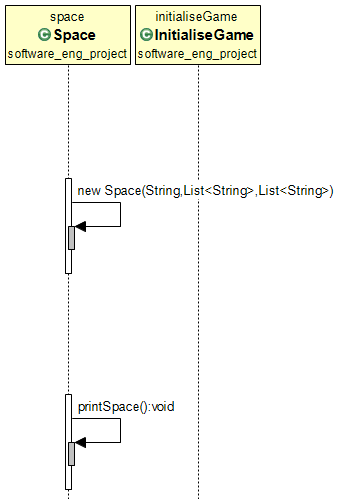
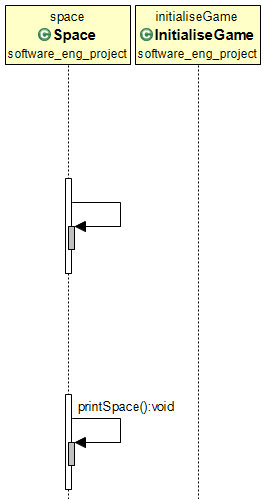
Tidied up console window print messages, printed user's name on turn, get user to spin the spinner, and stopped printing full decks of cards when they are created. Signed-off-by: Barry Mulvey <barry.mulvey@ucdconnect.ie>

diff --git a/src/software_eng_project/Main.java b/src/software_eng_project/Main.java
@@ -11,53 +11,9 @@ import software_eng_project.HouseCards;
 public class Main {
 
 	public static void main(String[] args) {
-		// initialise players
-
-		//ArrayList<String> carColour = new ArrayList<String>();
-		//carColour.add("Pink");
-		//carColour.add("Blue");
-		//carColour.add("Green");
-		//carColour.add("Yellow");
-		//String userColour = null;
-		//ArrayList<Player> listOfPlayers = new ArrayList<Player>();
-
-
-		/*System.out.println("How many players? (2-4): ");
-		int numPlayers = keyboard.nextInt();
-
-		for (int i=1; i<=numPlayers; i++) {
-			Player player = new Player(); 
-			Player player1 = new Player(); 		
-			player1 = player.initialisePlayer(carColour);
-
-			String chosenColour = player1.getColour();
-			carColour.remove(chosenColour);
-
-			listOfPlayers.add(player1);
-			}
-
-		for (int x=0; x<listOfPlayers.size(); x++) {
-			listOfPlayers.get(x).printDetails();
-		}
-
-		// HOUSE CARDS
-		// house cards read in and sorted into array houseList, details printed to check if correct!
-
-		//identifies were the board file is located
-		Utility utility = Utility.getInstance();
-		String boardFileLocation = utility.getProperty("house_file");
-
-		ArrayList<HouseCards> houseList = new ArrayList<HouseCards>();
-		houseList = HouseCards.getListOfCards(boardFileLocation);
-		for (int i=0;i<houseList.size();i++) {
-			houseList.get(i).printCardDetails();
-		} 
-		 */
-
 		// open scanner
 		Scanner keyboard = new Scanner(System.in);
-
-
+		
 		// create list of players and initialise
 		ArrayList<Player> new_listOfPlayers = new ArrayList<Player>();
 		new_listOfPlayers = InitialiseGame.initialisePawns();
@@ -85,49 +41,18 @@ public class Main {
 		// Create a new spinner
 		Spinner spinner = new Spinner();
 
-
 		// PLAYERS PLAY
 
-		/*
-		for(int x=0;x<new_listOfPlayers.size();x++) {
-
-			// spin spinner and print results
-			spinner.spinSpinner();
-			int moves = spinner.getNumber();
-			System.out.println("Value: "+moves+"\nColour: "+spinner.getColour());
-
-			for(int y=1;y<=moves;y++) {
-				String next_space = null;
-				String current_space = new_listOfPlayers.get(x).getCurrentSpace();
-				System.out.println("Player "+x+" now at: "+current_space);
-				// what are the next space choices?
-				java.util.List<String> next_space_choices = boardSpacesList.get(Integer.parseInt(current_space)).getNextSpace();
-				// ask user if there is a choice!
-				String space_type = boardSpacesList.get(Integer.parseInt(current_space)).getSpaceType();
-				if(space_type.contains("STOP")) {
-					System.out.println("Stop");
-				}
-				if(next_space_choices.size() > 1) {
-					System.out.println("Choose Path: " + next_space_choices.get(0) + " or " + next_space_choices.get(1));
-					int next_space_int = keyboard.nextInt();
-					next_space = Integer.toString(next_space_int);
-				} else {
-					next_space = next_space_choices.get(0);
-				}
-				new_listOfPlayers.get(x).movePlayer(next_space);
-
-			}
-			System.out.println("Next player's turn");
-		} */
-
-		for (int num_turns=0;num_turns<3;num_turns++) {
-
-
-			// 1st TURN
-
+		for (int num_turns=0;num_turns<3;num_turns++) { 				// for 3 turns
 			for(int x=0;x<new_listOfPlayers.size();x++) {
-
+				String current_player=new_listOfPlayers.get(x).getName();
+				// Next player's turn
+				System.out.println("\n"+current_player+"'s turn");
+				
 				// spin spinner and print results
+				System.out.println(current_player+", press enter to spin the spinner!");
+				keyboard.nextLine();
+				
 				spinner.spinSpinner();
 				int moves = spinner.getNumber();
 				System.out.println("Spin value: "+moves+"\nColour: "+spinner.getColour());
@@ -139,7 +64,7 @@ public class Main {
 					java.util.List<String> next_space_choices = boardSpacesList.get(Integer.parseInt(current_space)-1).getNextSpace();
 					// ask user if there is a choice!
 					String space_type = boardSpacesList.get(Integer.parseInt(current_space)-1).getSpaceType();
-					if(y>0 && space_type.contains("STOP")) {
+					if(y>0 && space_type.contains("STOP")) { 						// Player lands on stop
 						System.out.println("Stop");
 						break;
 					}
@@ -154,12 +79,14 @@ public class Main {
 				}
 
 				String current_space = new_listOfPlayers.get(x).getCurrentSpace();
-				System.out.println("Player "+x+" now at: "+current_space);
-				System.out.println("\nNext player's turn");
+				System.out.println(current_player+" moves to space "+current_space);
+				//System.out.println(current_player+", press enter to end your turn.");
+				//keyboard.nextLine();
+				//System.out.println("\nNext player's turn");
 			}
 
 		}
-
+		System.out.println("\nEnd of game!");
 
 		keyboard.close();
 	}

diff --git a/src/software_eng_project/InitialiseGame.java b/src/software_eng_project/InitialiseGame.java
@@ -12,10 +12,12 @@ public class InitialiseGame {
 	
 	public static ArrayList<Space> initialiseBoard() {
 	ArrayList<Space> boardSpacesList = BoardReader.readBoard();
+	/*
 	for(int i=0;i<boardSpacesList.size();i++) {
 		boardSpacesList.get(i).printSpace();
 		System.out.println();
 		}
+	*/
 	return boardSpacesList;
 	}
 
@@ -65,9 +67,11 @@ public class InitialiseGame {
 		
 		ArrayList<HouseCards> houseList = new ArrayList<HouseCards>();
 		houseList = HouseCards.getListOfCards(houseFileLocation);
+		/*
 		for (int i=0;i<houseList.size();i++) {
 			houseList.get(i).printCardDetails();
 		} 
+		*/
 	return houseList;
 	}
 
@@ -81,9 +85,11 @@ public class InitialiseGame {
 		
 		ArrayList<CareerCards> careerList = new ArrayList<CareerCards>();
 		careerList = CareerCards.getListOfCards(cardFileLocation);
+		/*
 		for (int i=0;i<careerList.size();i++) {
 			careerList.get(i).printCardDetails();
 		} 
+		*/
 	return careerList;
 	}
 	

diff --git a/src/software_eng_project/HouseCards.java b/src/software_eng_project/HouseCards.java
@@ -74,6 +74,7 @@ public class HouseCards extends Cards {
 		return value3;
 	}
 	
+	/*
 	// PRINT DETAILS OVERRIDE
 	@Override
 	public void printCardDetails() {
@@ -81,4 +82,5 @@ public class HouseCards extends Cards {
 		System.out.println("House Type: "+getName()+"\nPurchase Price: "+getValue1()+"\nSale Price (red spin): "+getValue2()+"\nSale Price (black spin): " +getValue3());
 		System.out.println("*** *** *** *** *** *** *** ***");	
 	}
+	*/
 }

diff --git a/src/software_eng_project/CareerCards.java b/src/software_eng_project/CareerCards.java
@@ -52,6 +52,7 @@ public class CareerCards extends Cards {
 		return value2;
 	}
 	
+	/*
 	// PRINT DETAILS OVERRIDE
 	@Override
 	public void printCardDetails() {
@@ -59,4 +60,5 @@ public class CareerCards extends Cards {
 		System.out.println("Career Type: "+getName()+"\nSalary: "+getValue1()+"\nBonus Number: "+getValue2());
 		System.out.println("*** *** *** *** *** *** *** ***");	
 	}
+	*/
 }

diff --git a/src/software_eng_project/Cards.java b/src/software_eng_project/Cards.java
@@ -109,10 +109,12 @@ public abstract class Cards {
 		return cardList;
 	}
 
+	/*
 	// PRINT DETAILS
 	public void printCardDetails() {
 		System.out.println("*** *** *** *** *** *** *** ***");
 		System.out.println("Name: "+getName()+"\nValue 1: "+getValue1());
 		System.out.println("*** *** *** *** *** *** *** ***");	
 	}
+	*/
 }

diff --git a/src/software_eng_project/Player.java b/src/software_eng_project/Player.java
@@ -1,7 +1,6 @@
 package software_eng_project;
 
 import java.util.ArrayList;
-import java.util.List;
 import java.util.Scanner;
 
 public class Player {
@@ -95,6 +94,9 @@ public class Player {
 		else if(lifeDecision.equals("Career")) {
 			player1.current_space = "1";
 		}
+		
+		//keyboard.close();
+		
 		return player1;
 	}
 

diff --git a/src/software_eng_project/ActionCards.java b/src/software_eng_project/ActionCards.java
@@ -55,8 +55,10 @@ public abstract class ActionCards {
         	}
         }
         
+        /*
         // Print full deck details
         System.out.println("Full Deck: " + cardList);
+        */
 	return cardList;
 	}
 	
